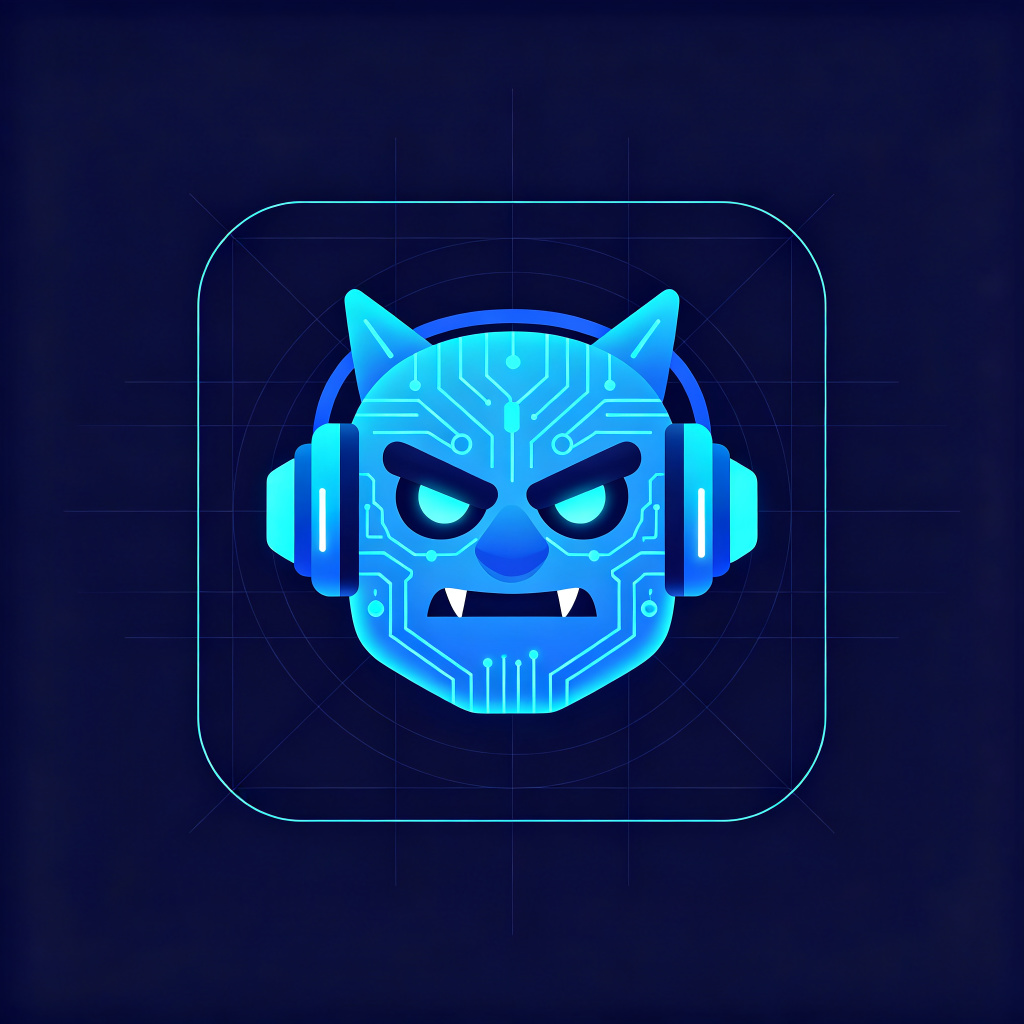
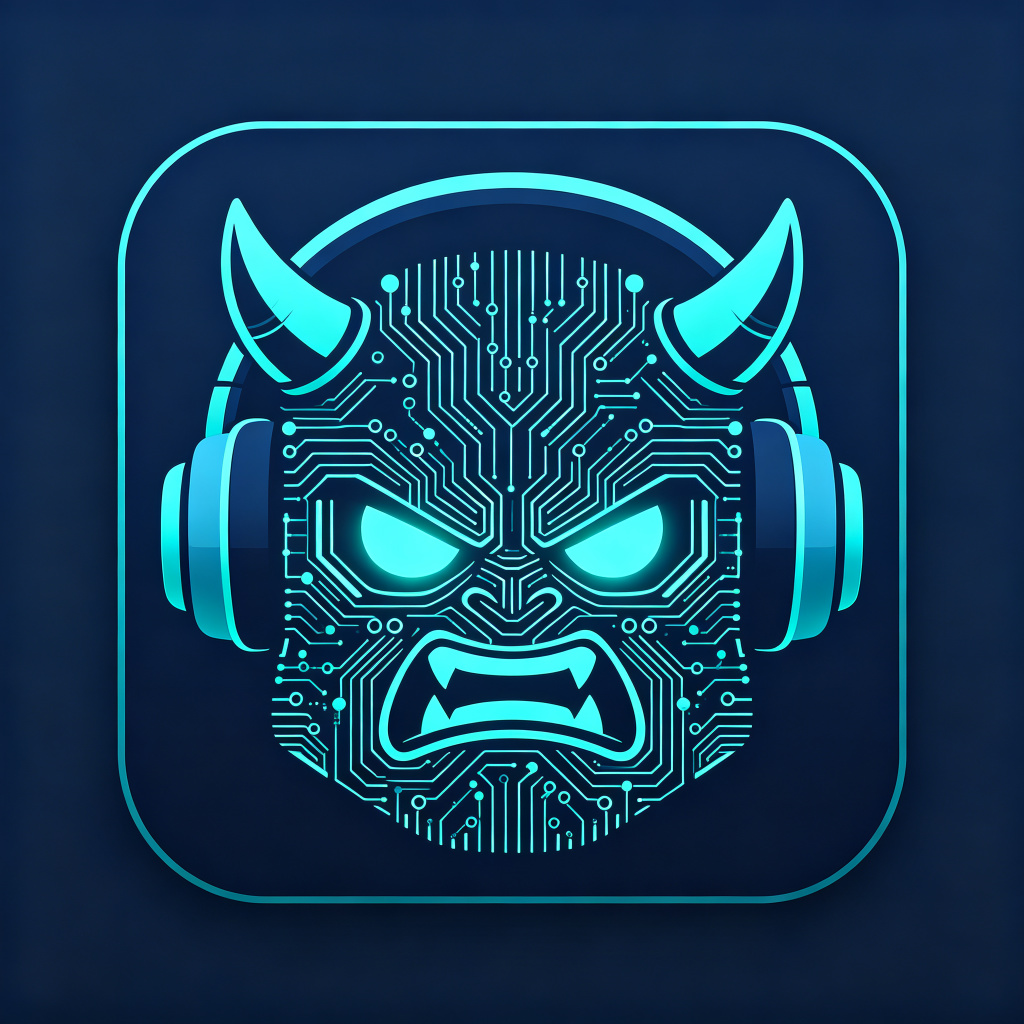
v2.9.66: 1.Entitlements检测改为信息提醒(不打✔/✘,只显示ℹ和操作建议,不影响ready判断) 2.换新巨魔蓝大脸App图标(脸占85%,亮青电路风格) 3.落地页同步换新图标

diff --git a/Sources/TrollMCP2/DeviceProbe.swift b/Sources/TrollMCP2/DeviceProbe.swift
@@ -13,6 +13,7 @@ final class DeviceProbe: ObservableObject {
         let label: String
         let passed: Bool
         let detail: String
+        let infoOnly: Bool  // v2.9.66：信息提醒项，不显示 ✔/✘，只显示 ℹ，不影响整体就绪状态
     }
 
     struct Report {
@@ -60,45 +61,43 @@ final class DeviceProbe: ObservableObject {
         let injectionBinaries = testInjectionBinaries()
         let amfidBypassInferred = taskForPid && !injectionBinaries.isEmpty && injectionBinaries.values.allSatisfy { $0 } && containerWrite
 
-        // v2.9.65：Entitlements 检测改用"实际写其他 App Bundle 目录"作为主要判断依据。
-        // 之前用 spawnRoot 执行 /usr/bin/id 检测，但外部命令执行受多种因素影响（命令不存在、pipe竞态等），
-        // 频繁误报"未生效"。Bundle 目录只有 root 能写，能写就证明 persona spawn + root 权限链路完整，
-        // 这也是注入操作的真正前提。spawnRoot 检测保留为辅助诊断。
+        // v2.9.66：Entitlements 检测改为信息提醒，不打 ✔/✘。
+        // 原因：persona spawn / Bundle 写入检测在不同 iOS 版本、不同 TrollStore 配置下表现不一致，
+        // 反复误报"未生效"。改为只显示当前检测到的状态和操作建议，不影响整体就绪判断。
         let bundleWriteOK = testBundleWrite()
         let rootDiag = InjectionManager.shared.diagnoseRoot()
         let spawnIsRoot = (rootDiag["is_root"] as? Bool) ?? false
-        let entitlementsOK = bundleWriteOK || spawnIsRoot
         let entDetail: String
-        if entitlementsOK {
-            var parts: [String] = []
-            if bundleWriteOK { parts.append("Bundle写入测试通过（root可写其他App目录）") }
-            if spawnIsRoot { parts.append("persona spawn uid=0") }
-            entDetail = parts.joined(separator: "；")
+        if bundleWriteOK || spawnIsRoot {
+            var parts: [String] = ["已检测到 root 写入能力，注入环境就绪"]
+            if bundleWriteOK { parts.append("（Bundle 写入测试通过）") }
+            if spawnIsRoot { parts.append("（persona spawn uid=0）") }
+            entDetail = parts.joined()
         } else {
-            let exitCode = rootDiag["exit_code"] as? Int ?? -1
-            let idOut = (rootDiag["id_output"] as? String) ?? "(无输出)"
-            entDetail = "Bundle写入失败 + spawn检测exit=\(exitCode)输出：\(idOut)。请在 TrollStore 开启「编辑 Entitlements」后卸载重装（覆盖安装不会重新应用 entitlements）"
+            entDetail = "⚠ 注入功能需要在 TrollStore 中开启「编辑 Entitlements」权限，然后卸载重装本 App（覆盖安装不会重新应用权限）。当前未验证到 root 写入能力，注入可能失败。"
         }
+        let entitlementsOK = bundleWriteOK || spawnIsRoot  // 内部记录用，不影响 ready 和 UI 显示
 
         var checks: [Check] = []
-        checks.append(Check(label: "TrollStore 已安装", passed: trollStore,
+        checks.append(Check(label: "TrollStore 已安装", passed: trollStore, infoOnly: false,
             detail: trollStore ? "检测到 TrollStore App 或越狱根" : "未检测到 TrollStore / 越狱环境"))
-        checks.append(Check(label: "TrollStore Entitlements 权限", passed: entitlementsOK,
+        checks.append(Check(label: "TrollStore Entitlements 权限", passed: true, infoOnly: true,
             detail: entDetail))
-        checks.append(Check(label: "TrollFools 已安装", passed: trollFools,
+        checks.append(Check(label: "TrollFools 已安装", passed: trollFools, infoOnly: false,
             detail: trollFools ? "检测到 TrollFools（可注入）" : "未检测到 TrollFools，注入需手动"))
-        checks.append(Check(label: "task_for_pid 权限", passed: taskForPid,
+        checks.append(Check(label: "task_for_pid 权限", passed: taskForPid, infoOnly: false,
             detail: taskForPid ? "持有 task_for_pid-allow，可获取进程端口" : "无 task_for_pid-allow，进程级操作受限"))
-        checks.append(Check(label: "App 容器任意读写", passed: containerWrite,
+        checks.append(Check(label: "App 容器任意读写", passed: containerWrite, infoOnly: false,
             detail: containerWrite ? "AppDataContainers 权限生效，可写任意 App 沙盒" : "无法写入其他 App 容器（缺 entitlement）"))
         for (name, ok) in injectionBinaries.sorted(by: { $0.key < $1.key }) {
-            checks.append(Check(label: "注入二进制 \(name)", passed: ok,
+            checks.append(Check(label: "注入二进制 \(name)", passed: ok, infoOnly: false,
                 detail: ok ? "已捆绑且可执行" : "缺失或不可执行"))
         }
-        checks.append(Check(label: "amfid 绕过（推断）", passed: amfidBypassInferred,
+        checks.append(Check(label: "amfid 绕过（推断）", passed: amfidBypassInferred, infoOnly: false,
             detail: amfidBypassInferred ? "task_for_pid + 注入工具 + 容器读写 均通过，dylib 注入链路可工作" : "条件不足，unsigned dylib 可能无法加载"))
 
-        let ready = trollStore && entitlementsOK && taskForPid && containerWrite && !injectionBinaries.isEmpty && injectionBinaries.values.allSatisfy { $0 }
+        // v2.9.66：ready 不再依赖 entitlementsOK（已改为信息提醒项）
+        let ready = trollStore && taskForPid && containerWrite && !injectionBinaries.isEmpty && injectionBinaries.values.allSatisfy { $0 }
 
         let report = Report(
             deviceName: deviceName, model: model, systemVersion: systemVersion, vendorID: vendorID,

diff --git a/Sources/TrollMCP2/DeviceReporter.swift b/Sources/TrollMCP2/DeviceReporter.swift
@@ -1,0 +1,76 @@
+//
+//  DeviceReporter.swift
+//  TrollAgent
+//
+//  启动时上报设备信息到统计后台，用于安装量/机型分布统计。
+//  同一设备只上报一次（按 vendorID 去重），后续启动只更新 last_seen。
+//
+
+import Foundation
+import UIKit
+
+final class DeviceReporter {
+    static let shared = DeviceReporter()
+
+    /// 上报服务器地址，例如 https://your-domain.com
+    /// 在 设置 → 统计上报 中配置，UserDefaults key: "stats_server_url"
+    private var serverURL: String {
+        UserDefaults.standard.string(forKey: "stats_server_url") ?? ""
+    }
+
+    /// 是否启用上报
+    private var enabled: Bool {
+        UserDefaults.standard.bool(forKey: "stats_report_enabled")
+    }
+
+    private init() {}
+
+    /// App 启动时调用，异步上报设备信息
+    func reportIfNeeded() {
+        guard enabled else { return }
+        guard let url = URL(string: serverURL.trimmingCharacters(in: .whitespacesAndNewlines) + "/api/register") else { return }
+
+        let device = UIDevice.current
+        let vendorID = device.identifierForVendor?.uuidString ?? UUID().uuidString
+
+        // 读取 App 版本
+        let appVersion = Bundle.main.infoDictionary?["CFBundleShortVersionString"] as? String ?? "unknown"
+        let bundleId = Bundle.main.bundleIdentifier ?? "unknown"
+
+        // 设备型号（需要从 sysctlbyname 获取，如 iPhone14,5）
+        let modelName = Self.deviceModelIdentifier()
+
+        let payload: [String: Any] = [
+            "device_uuid": vendorID,
+            "device_model": modelName,
+            "device_name": device.name,
+            "ios_version": device.systemVersion,
+            "app_version": appVersion,
+            "bundle_id": bundleId
+        ]
+
+        var request = URLRequest(url: url)
+        request.httpMethod = "POST"
+        request.setValue("application/json", forHTTPHeaderField: "Content-Type")
+        request.httpBody = try? JSONSerialization.data(withJSONObject: payload)
+        request.timeoutInterval = 10
+
+        URLSession.shared.dataTask(with: request) { _, _, _ in
+            // 静默上报，失败不重试（下次启动再试）
+        }.resume()
+    }
+
+    // MARK: - 设备型号识别
+
+    /// 获取设备型号标识符，如 "iPhone14,5"（iPhone 13）
+    static func deviceModelIdentifier() -> String {
+        var systemInfo = utsname()
+        uname(&systemInfo)
+        let machineMirror = Mirror(reflecting: systemInfo.machine)
+        let identifier = machineMirror.children.reduce("") { identifier, element in
+            guard let value = element.value as? Int8, value != 0 else { return identifier }
+            return identifier + String(UnicodeScalar(UInt8(value)))
+        }
+        return identifier
+    }
+}

diff --git a/Sources/TrollMCP2/DeviceDetectionView.swift b/Sources/TrollMCP2/DeviceDetectionView.swift
@@ -50,11 +50,17 @@ struct DeviceDetectionView: View {
                             HStack(alignment: .top, spacing: 12) {
                                 ZStack {
                                     Circle()
-                                        .fill(check.passed ? Color.green.opacity(0.15) : Color.red.opacity(0.15))
+                                        .fill(check.infoOnly
+                                            ? Color.blue.opacity(0.15)
+                                            : (check.passed ? Color.green.opacity(0.15) : Color.red.opacity(0.15)))
                                         .frame(width: 32, height: 32)
-                                    Image(systemName: check.passed ? "checkmark" : "xmark")
-                                        .font(.system(size: 14, weight: .bold))
-                                        .foregroundColor(check.passed ? .green : .red)
+                                    Image(systemName: check.infoOnly
+                                        ? "info.circle.fill"
+                                        : (check.passed ? "checkmark" : "xmark"))
+                                        .font(.system(size: check.infoOnly ? 16 : 14, weight: .bold))
+                                        .foregroundColor(check.infoOnly
+                                            ? .blue
+                                            : (check.passed ? .green : .red))
                                 }
                                 VStack(alignment: .leading, spacing: 3) {
                                     Text(check.label)

diff --git a/Sources/TrollMCP2/SettingsView.swift b/Sources/TrollMCP2/SettingsView.swift
@@ -166,7 +166,7 @@ struct SettingsView: View {
                         color: .orange,
                         destination: NetworkDebugView()
                     )
-                    LabeledRow(label: "版本", value: "2.9.65")
+                    LabeledRow(label: "版本", value: "2.9.66")
                     LabeledRow(label: "Bundle ID", value: Bundle.main.bundleIdentifier ?? "-")
                     LabeledRow(label: "工作区", value: Workspace.root.lastPathComponent)
                     LabeledRow(label: "工具数", value: "\(ToolRegistry.shared.definitions.count)")

diff --git a/Sources/TrollMCP2/AppMain.swift b/Sources/TrollMCP2/AppMain.swift
@@ -28,6 +28,8 @@ final class AppDelegate: UIResponder, UIApplicationDelegate {
         LocationProvider.shared.start()
         // v2.9.10：网络与生命周期监控（切后台重连 / 网络恢复提示）
         AppLifecycleMonitor.shared.start()
+        // v2.9.66：启动时上报设备信息到统计后台（安装量/机型分布，需在设置中开启并配置服务器地址）
+        DeviceReporter.shared.reportIfNeeded()
 
         window = UIWindow(frame: UIScreen.main.bounds)
         window?.rootViewController = UIHostingController(rootView: RootView())
